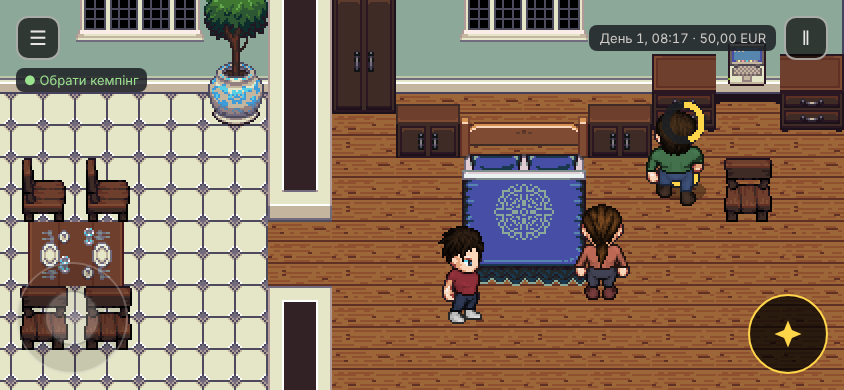
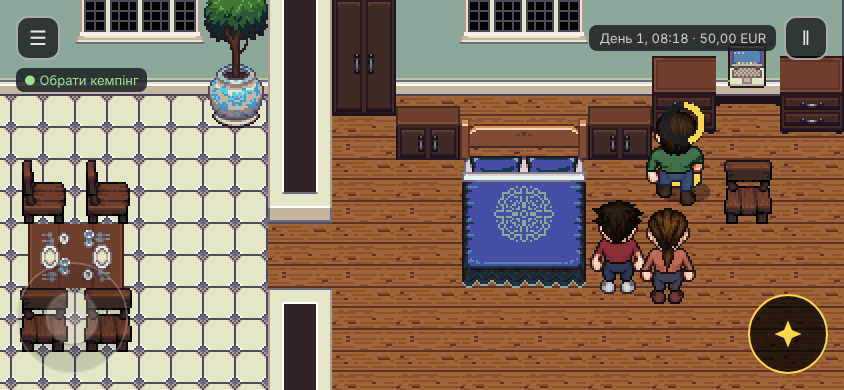
GAME-175: пакування ходьбою (розкладання поради вдома), кільце бере лише ціль, видимий рюкзак, знімки з рюкзаком
Claude-Session: https://claude.ai/code/session_01RoJJJhaZjeur2b1tUo6iMd

diff --git a/src/content/map-first.test.ts b/src/content/map-first.test.ts
@@ -13,7 +13,7 @@ import { GAME_DEFS } from './slice-defs';
 import { CONTENT } from './story';
 import { progressKey, type Move } from './moves';
 import { enumerateCombos } from '../../scripts/validator/combos.mjs';
-import { isBulky, needsLeft, DAY1_QUESTS, DAY1_TARGETS, MAP_LOCATION, MAP_SPOTS, coveredKeys, liveMapSpot, mapKeyFor, moveKey, nextTarget, resolveSpot, spotLabel, targetProblems, type MapTarget } from './map-first';
+import { isBulky, needsLeft, DAY1_QUESTS, DAY1_TARGETS, MAP_LOCATION, MAP_SPOTS, coveredKeys, liveMapSpot, mapKeyFor, moveKey, nextTarget, resolveSpot, spotLabel, targetProblems, unpackMoves, type MapTarget } from './map-first';
 
 const DEFS: CoreDefs = GAME_DEFS;
 const MAP_VIEW: StoryView = { mapFirst: true, trunk: false, near: null };
@@ -273,5 +273,45 @@ describe('рюкзак і потреби (GAME-175: дрібне — в рюкз
   it('НЕГАТИВНИЙ КОНТРОЛЬ: поза пакуванням (до крамниці) потреб немає, а рюкзак підказку не міняє', () => {
     const s = create((CHOICES[0] as { intent: Move }).intent);
     expect(nextTarget(s, DEFS, ['item.water'])?.key).not.toBe('next.unload');
+  });
+});
+
+describe('пакування ходьбою: удома спакований «за порадою» набір розкладається, і його треба віднести ногами (GAME-175)', () => {
+  const toHome = (intent: Move): SimState => {
+    let s = create(intent);
+    for (let i = 0; i < 30 && !(s.game.quests['CH1-HOME-001']?.status === 'active' && s.game.player?.locationId === 'loc.home'); i++) {
+      const next = nextTarget(s, DEFS);
+      const spot = progressSpots(s).find((p) => p.name === next?.spot) ?? progressSpots(s)[0];
+      if (!spot) throw new Error('шлях обірвано');
+      s = applyAll(s, spot.moves);
+    }
+    return s;
+  };
+  for (const c of CHOICES) {
+    it(`${c.offer.transportKey} · ${c.offer.animalKey ?? 'без тварини'}: розкладено → бракує потрібного, мала річ є (рюкзак), ногами все складається назад і дорога відкрита`, () => {
+      let s = toHome(c.intent);
+      const moves = unpackMoves(s, DEFS);
+      expect(moves.length, 'є що розкласти').toBeGreaterThan(0);
+      expect(needsLeft(s, DEFS)).toEqual([]);   // до розкладання все на місці
+      s = applyAll(s, moves);
+      const left = needsLeft(s, DEFS);
+      expect(left.length, 'після розкладання бракує потрібного').toBeGreaterThan(0);
+      expect(left.some((i) => !isBulky(DEFS, i)), 'є дрібне — піде в рюкзак').toBe(true);
+      expect(left.some((i) => isBulky(DEFS, i)), 'є громіздке — в багажник').toBe(true);
+      expect(unpackMoves(s, DEFS), 'повторно не розкладається').toEqual([]);
+      for (const i of left) { const r = resolveSpot(s, DEFS, `pack.${i}`); expect(r, `pack.${i} живий`).not.toBeNull(); s = applyAll(s, (r as { moves: readonly Move[] }).moves); }
+      expect(needsLeft(s, DEFS)).toEqual([]);
+      expect(nextTarget(s, DEFS)?.spot).toBe('obj.vehicle');
+      const out = applyAll(s, (resolveSpot(s, DEFS, 'obj.vehicle') as { moves: readonly Move[] }).moves);
+      expect(ROAD_GOAL(out), 'виїзд після пакування ногами').toBe(true);
+    });
+  }
+  it('НЕГАТИВНІ КОНТРОЛІ: на старті (пакування закрите) і в крамниці нічого не розкладається; змінений набір (ніхто не «чистий») не чіпається', () => {
+    expect(unpackMoves(create((CHOICES[0] as { intent: Move }).intent), DEFS)).toEqual([]);
+    const s = toHome((CHOICES[0] as { intent: Move }).intent);
+    const shop = { ...s, game: { ...s.game, player: { ...(s.game.player as NonNullable<typeof s.game.player>), locationId: 'loc.shop' } } };
+    expect(unpackMoves(shop, DEFS)).toEqual([]);
+    const tweaked = applyAll(s, [{ type: 'UnpackItem', itemId: 'item.snacks' } as Move]);
+    expect(unpackMoves(tweaked, DEFS)).toEqual([]);
   });
 });

diff --git a/src/content/map-first.ts b/src/content/map-first.ts
@@ -10,7 +10,7 @@
 // можна завжди: або ногами, або (як було) кнопкою. Що саме ногами — доводить map-first.test.ts повним перебором.
 import { dispatch, nextCommandId, type Command } from '../core/commands';
 import type { CoreDefs } from '../core/defs';
-import { packFlag, packItemsFor, packingOpen } from '../core/packing';
+import { autoPack, packFlag, packItemsFor, packedOf, packingOpen } from '../core/packing';
 import type { SimState } from '../core/sim';
 import type { GameState } from '../core/state';
 import { matches } from '../core/story';
@@ -302,4 +302,20 @@ export function needsLeft(sim: SimState, defs: CoreDefs, carried: readonly strin
   const pk = defs.packing;
   if (!p || !pk || !packingOpen(pk, g) || !active(g, 'CH1-HOME-001')) return [];
   return packItemsFor(pk, p).filter((i) => i.group === 'needed' && !g.flags.includes(packFlag(i.itemId)) && !carried.includes(i.itemId)).map((i) => i.itemId);
+}
+
+/**
+ * Пакування ходьбою: ядро на старті вважає все «спакованим як радить гра» (GAME-109), тож удома нічого було б носити. Коли гравець повернувся з крамниці
+ * і пакування відкрилось, а набір ще точно дорівнює порадженому (ніхто не торкався) — розкладаємо його назад по місцях: ті самі команди UnpackItem, що
+ * знімають річ з багажника. Далі речі треба знову віднести ногами. Порожньо, коли не вдома, не ця справа чи набір уже змінено.
+ */
+export function unpackMoves(sim: SimState, defs: CoreDefs): Move[] {
+  const g = sim.game;
+  const p = g.player;
+  const pk = defs.packing;
+  if (!p || !pk || p.locationId !== MAP_LOCATION.home || !quest(g, 'CH1-HOME-001') || !packingOpen(pk, g)) return [];
+  const have = packedOf(g.flags, pk, p);
+  const want = autoPack(pk, p);
+  if (have.length === 0 || have.length !== want.length || !have.every((i) => want.includes(i))) return [];
+  return have.map((itemId) => ({ type: 'UnpackItem' as const, itemId }));
 }

diff --git a/src/main.ts b/src/main.ts
@@ -23,7 +23,7 @@ import { addFrameLag, bootDelay, onFirstFrame } from './view/frame-lag';
 import type { StoryOffer } from './ui/story-types';
 import { uiSounds } from './audio/ui-sounds';
 import { liveSpot, spotMove, storyMoves } from './content/director';
-import { isBulky, isMapFirstSpot, mapKeyFor, needsLeft, nextTarget, resolveSpot, spotLook } from './content/map-first';
+import { isBulky, isMapFirstSpot, mapKeyFor, needsLeft, nextTarget, resolveSpot, spotLook, unpackMoves } from './content/map-first';
 import { packFlag } from './core/packing';
 import type { GameState } from './core/state';
 
@@ -74,7 +74,13 @@ const openListeners = new Set<() => void>();
 // GAME-175: розмова, яку почала не дія гравця на мапі, а гра (подія в дорозі після виїзду), мусить бути видна: об'єкти мапи під час розмови мовчать, тож без
 // екрана подорожі гравець завис би. Розмова щойно з'явилась (раніше її не було) — екран відкривається сам.
 let hadDialogue = false;
+let unpackedOnce = false;
 const storyChanged = (): void => {
+  // GAME-175: мапа-перша гра — спакований «за порадою» набір розкладається, коли гравець удома; речі він переносить ногами (раз за гру).
+  if (!switches.panelActs && !unpackedOnce) {
+    const moves = unpackMoves(bridge.state, GAME_DEFS);
+    if (moves.length > 0) { unpackedOnce = true; for (const m of moves) bridge.send(m); }
+  }
   direct();
   for (const l of storyListeners) l();
   const talking = bridge.state.game.dialogue !== null;
@@ -227,6 +233,7 @@ render(h(Shell, {
     save: () => saves.save(),
     newGame: async () => {
       backpack.length = 0;
+      unpackedOnce = false;
       const ok = await saves.newGame();
       storyChanged();
       return ok;
@@ -236,6 +243,7 @@ render(h(Shell, {
     dismissStale: () => saves.dismissStale(),
     importCode: async (code: string) => {
       backpack.length = 0;
+      unpackedOnce = false;
       const r = await saves.adopt(await decodeRestoreCode(code));
       storyChanged();
       return r;

diff --git a/src/view/world/scene.ts b/src/view/world/scene.ts
@@ -16,7 +16,7 @@ import { FOLLOW_SPEED_FACTOR, SPEED, centerOf, gridFromWalls, restPoints, stepFo
 import type { MapKey } from '../../content/map-first';
 import { playUi } from '../../audio/ui-sounds';
 import { MapFx, type Needs } from './map-fx';
-import { FEEDBACK_S, RING_IDLE, stepRing, type Ring } from './proximity';
+import { FEEDBACK_S, RING_IDLE, ringMayTake, stepRing, type Ring } from './proximity';
 import { IDLE_AFTER_S, LEISURE_BY_MAP, assignLeisure, leisureFromObjects, type LeisureSpot } from './leisure';
 
 export const TILE = 32;
@@ -618,7 +618,8 @@ export class WorldScene extends Phaser.Scene {
     // Кільце наближення: вийшов із зони — об'єкт знову «озброєний». Авто їде лише коли все потрібне вже в багажнику (а не повз нього) і герой стоїть.
     for (const n of [...this.fired]) { const f = this.spots.find((x) => x.name === n); if (!f || Phaser.Math.Distance.Between(this.player.x, this.player.y, f.x, f.y) > INTERACT_RANGE) this.fired.delete(n); }
     // Спакована річ удома сама не «розпаковується» від проходу повз: її дістають лише E/тап (чи сітка).
-    const autoNear = spot && best <= AUTO_RANGE ? near : null;
+    // Проходячи повз зайву річ (ліхтар, подушка), гравець її не підбирає сам: кільце рахує лише поточну ціль підказки; решту беруть E/тап — інакше «лишити» зайняло б місце потрібному.
+    const autoNear = spot && best <= AUTO_RANGE && ringMayTake(near, this.hooks.target()) ? near : null;
     const ready = (autoNear !== 'obj.vehicle' || (!carrying && needs.small + needs.bulky === 0)) && !(autoNear?.startsWith('pack.') && this.hooks.look(autoNear) === 'trunk');
     const r = stepRing(this.ring, atCar && carrying ? null : autoNear, !this.fired.has(autoNear ?? '') && ready, autoNear !== 'obj.vehicle' || !moving, dt);
     this.ring = r.ring;

diff --git a/src/view/world/proximity.test.ts b/src/view/world/proximity.test.ts
@@ -1,5 +1,5 @@
 import { describe, expect, it } from 'vitest';
-import { RING_IDLE, RING_S, isAutoSpot, stepRing } from './proximity';
+import { RING_IDLE, RING_S, isAutoSpot, ringMayTake, stepRing } from './proximity';
 
 function run(near: string | null, armed: boolean, hold: boolean, seconds: number, dt = 1 / 60): string | null {
   let r = RING_IDLE;
@@ -25,6 +25,13 @@ describe('кільце наближення (GAME-175)', () => {
     for (let i = 0; i < 30; i++) r = stepRing(r, 'step.ST-001', true, true, 1 / 60).ring;
     const s = stepRing(r, 'step.ST-002', true, true, 1 / 60);
     expect(s.ring.t).toBeLessThan(0.05);
+  });
+  it('повз зайву річ на полиці іти можна: кільце бере лише поточну ціль (ringMayTake)', () => {
+    expect(ringMayTake('pack.item.lantern-3', 'pack.item.water')).toBe(false);
+    expect(ringMayTake('pack.item.water', 'pack.item.water')).toBe(true);
+    expect(ringMayTake('step.ST-001', null)).toBe(true);
+    expect(ringMayTake('obj.vehicle', 'pack.item.water')).toBe(true);
+    expect(ringMayTake(null, null)).toBe(false);
   });
   it('isAutoSpot', () => { expect(isAutoSpot('pack.item.water')).toBe(true); expect(isAutoSpot('task.firewood')).toBe(false); });
 });

diff --git a/src/view/world/map-fx.ts b/src/view/world/map-fx.ts
@@ -41,11 +41,13 @@ export class MapFx {
   drawBackpack(on: boolean, x: number, y: number, facing: Dir): void {
     const g = this.pack.clear();
     if (!on) return;
-    const side = facing === 'left' ? 5 : facing === 'right' ? -5 : 0;
-    const bx = x + side - 5;
-    g.fillStyle(0x7a4b25, 1).fillRoundedRect(bx, y - 36, 10, 13, 2);
-    g.fillStyle(0xb67a3d, 1).fillRect(bx + 1, y - 34, 8, 3);
-    g.lineStyle(1, 0x1b1f23, 1).strokeRoundedRect(bx, y - 36, 10, 13, 2);
+    // Рюкзак на спині: ззаду (дивиться вниз/вбік) він виглядає з-за плечей широкими краями й верхом; спиною до глядача — перед героєм.
+    const side = facing === 'left' ? 4 : facing === 'right' ? -4 : 0;
+    const bx = x + side - 7;
+    g.fillStyle(0x7a4b25, 1).fillRoundedRect(bx, y - 38, 14, 16, 3);
+    g.fillStyle(0xb67a3d, 1).fillRect(bx + 2, y - 36, 10, 4);
+    g.fillStyle(0xd9a441, 1).fillRect(bx + 6, y - 31, 2, 3);
+    g.lineStyle(1, 0x1b1f23, 1).strokeRoundedRect(bx, y - 38, 14, 16, 3);
     g.setDepth(facing === 'up' ? y + 0.5 : y - 0.5);
   }
 

diff --git a/src/guards/visual-audit.test.ts b/src/guards/visual-audit.test.ts
@@ -12,7 +12,7 @@ export const pairs = (md: string): string[] => md.split(/^### /m).filter((s) => 
 export const effectRows = (md: string): string[][] => md.split('\n').filter((l) => /^\|\s*\d+\s*\|/.test(l)).map((l) => l.split('|').slice(1, -1).map((c) => c.trim()));
 /** Знімки нашої сцени, названі в тексті. */
 export const shotsIn = (s: string): string[] => [...s.matchAll(/research\/visual-audit\/([\w.-]+\.png)/g)].map((m) => m[1] ?? '');
-export const OURS = /^((day|dusk|night|before-no-effect)-(portrait-390x844|landscape-844x390)|family-(idle|walking-to-spots)|mapfirst-(portrait|landscape)-ring)\.png$/;   // GAME-173 родина; GAME-175 день 1 на мапі
+export const OURS = /^((day|dusk|night|before-no-effect)-(portrait-390x844|landscape-844x390)|family-(idle|walking-to-spots)|mapfirst-(portrait|landscape)-(ring|backpack))\.png$/;   // GAME-173 родина; GAME-175 день 1 на мапі
 
 describe('research/visual-audit.md (GAME-99)', () => {
   it('файл прочитано', () => { expect(MD.length).toBeGreaterThan(500); });

diff --git a/src/view/world/proximity.ts b/src/view/world/proximity.ts
@@ -22,3 +22,6 @@ export function stepRing(r: Ring, near: string | null, armed: boolean, hold: boo
   const t = (r.name === near ? r.t : 0) + dt / RING_S;
   return t >= 1 ? { ring: RING_IDLE, fire: near } : { ring: { name: near, t }, fire: null };
 }
+
+/** Чи кільце може взяти об'єкт `near` само: річ на полиці — лише коли вона поточна ціль підказки (повз зайву річ іти можна); решта автооб'єктів — як є. */
+export const ringMayTake = (near: string | null, target: string | null): boolean => near !== null && (!near.startsWith('pack.') || near === target);
